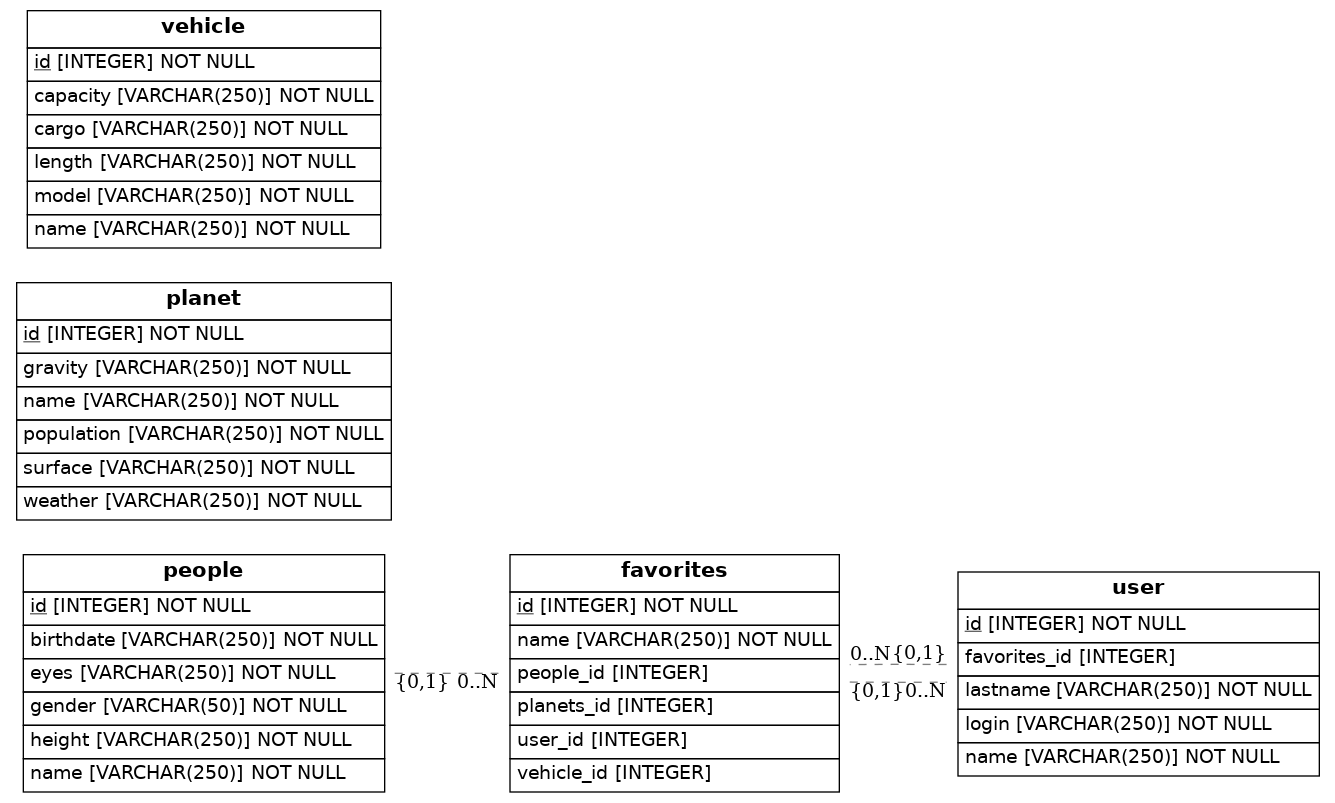
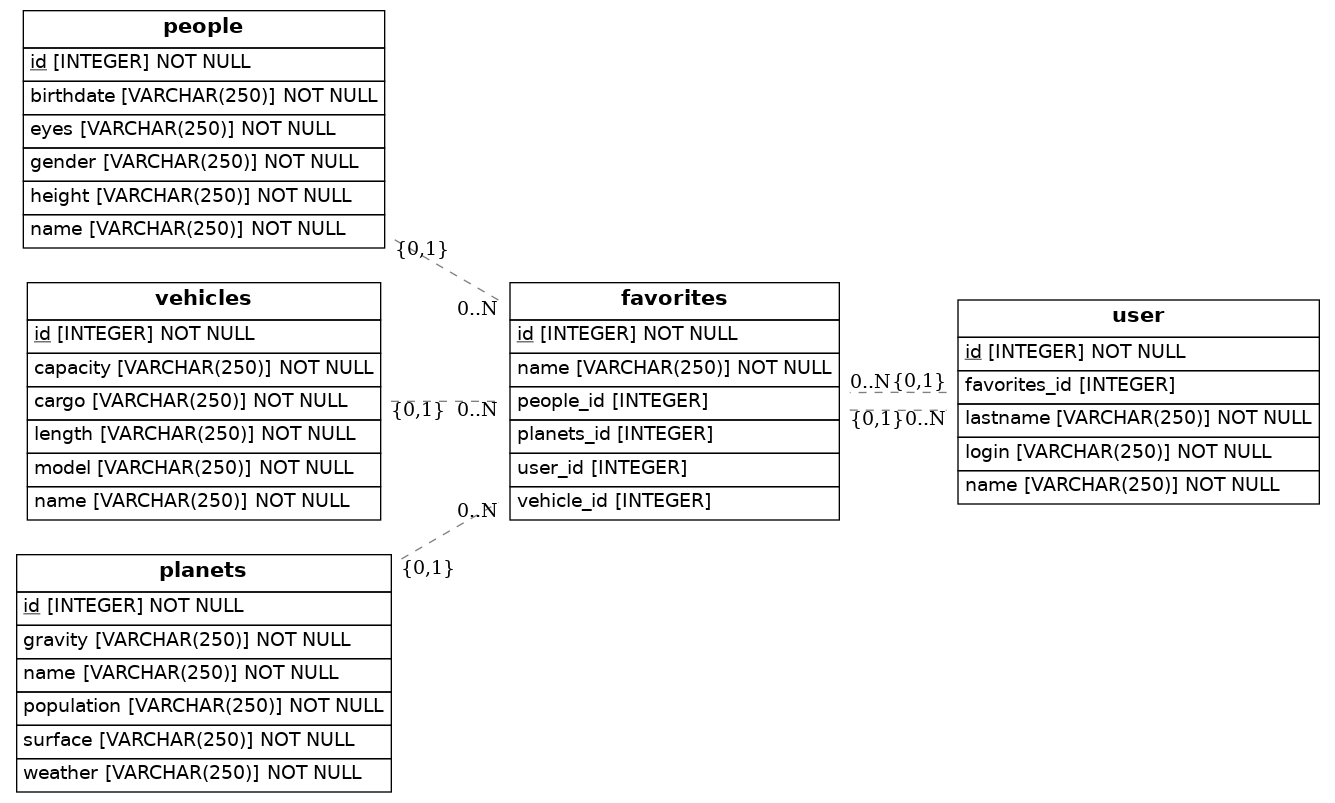
avance 3

diff --git a/src/models.py b/src/models.py
@@ -10,44 +10,35 @@ Base = declarative_base()
 
 
 
-#class Gender(str, enum.Enum):
- #   MALE = "male"
-  #  FEMALE = "female"
-
 class People(Base):
     __tablename__ = 'people'
     id = Column(Integer, primary_key=True)
     name = Column(String(250), nullable=False)
-    gender = Column(String(50), nullable=False)
     birthdate = Column(String(250), nullable=False)
+    gender = Column(String(250), nullable=False)
     eyes = Column(String(250), nullable=False)
     height = Column(String(250), nullable=False)
-    pass
 
-class Planet(Base):
-    __tablename__ = 'planet'
-    id = Column(Integer, primary_key=True)
-    name = Column(String(250), nullable=False)
-    surface = Column(String(250), nullable=False)
-    population = Column(String(250), nullable=False)
-    gravity = Column(String(250), nullable=False)
-    weather = Column(String(250), nullable=False)
-    pass
-
-class Vehicle(Base):
-    __tablename__ = 'vehicle'
+class Vehicles(Base):
+    __tablename__ = 'vehicles'
     id = Column(Integer, primary_key=True)
     name = Column(String(250), nullable=False)
     model = Column(String(250), nullable=False)
     length = Column(String(250), nullable=False)
     capacity = Column(String(250), nullable=False)
     cargo = Column(String(250), nullable=False)
-    pass
+
+class Planets(Base):
+    __tablename__ = 'planets'
+    id = Column(Integer, primary_key=True)
+    name = Column(String(250), nullable=False)
+    surface = Column(String(250), nullable=False)
+    population = Column(String(250), nullable=False)
+    gravity = Column(String(250), nullable=False)
+    weather = Column(String(250), nullable=False)
 
 class Favorites(Base):
     __tablename__ = 'favorites'
-    # Here we define columns for the table address.
-    # Notice that each column is also a normal Python instance attribute.
     id = Column(Integer, primary_key=True)
     name = Column(String(250), nullable=False)
     people_id = Column(Integer, ForeignKey('people.id'))
@@ -58,8 +49,6 @@ class Favorites(Base):
 
 class User(Base):
     __tablename__ = 'user'
-    # Here we define columns for the table person
-    # Notice that each column is also a normal Python instance attribute.
     id = Column(Integer, primary_key=True)
     name = Column(String(250), nullable=False)
     lastname = Column(String(250), nullable=False)
@@ -68,17 +57,7 @@ class User(Base):
     favorites_id = Column(Integer, ForeignKey('favorites.id'))
     favorites = relationship("favorites", back_populates="user")
 
+    def to_dict(self):
+        return {}
 
-
-
-## Draw from SQLAlchemy base
 render_er(Base, 'diagram.png')
-
-
-
-
-
-
-
-
-
